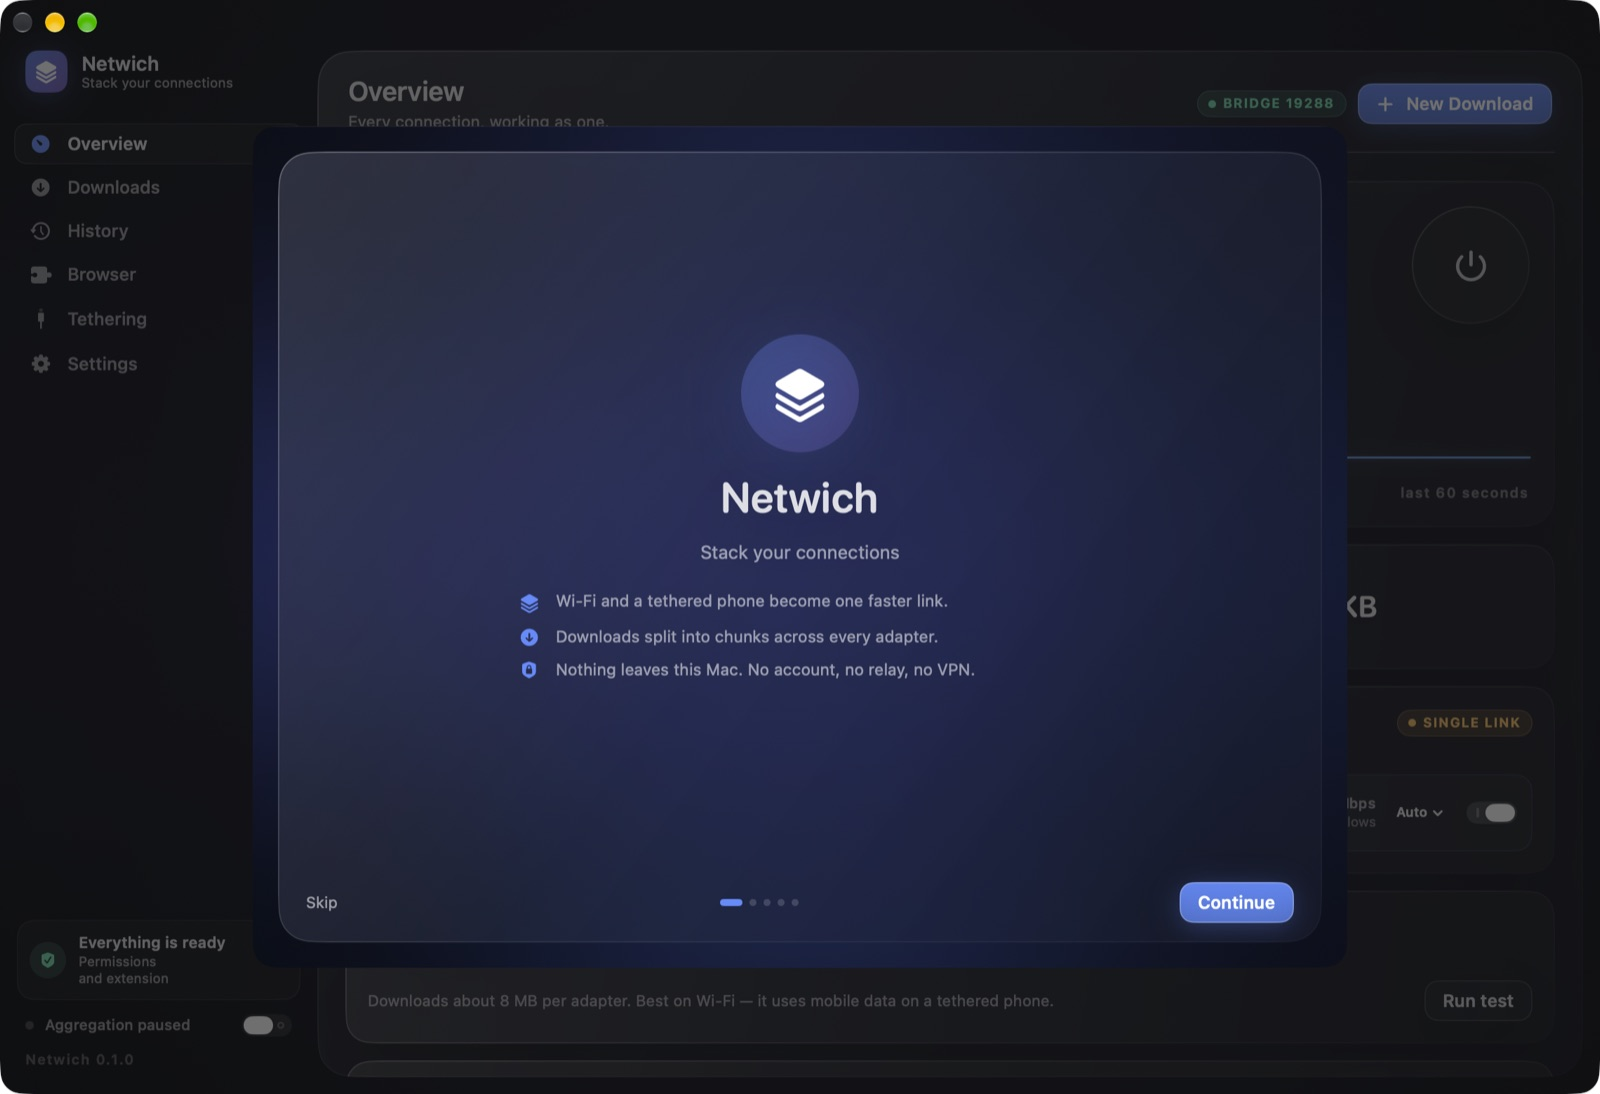
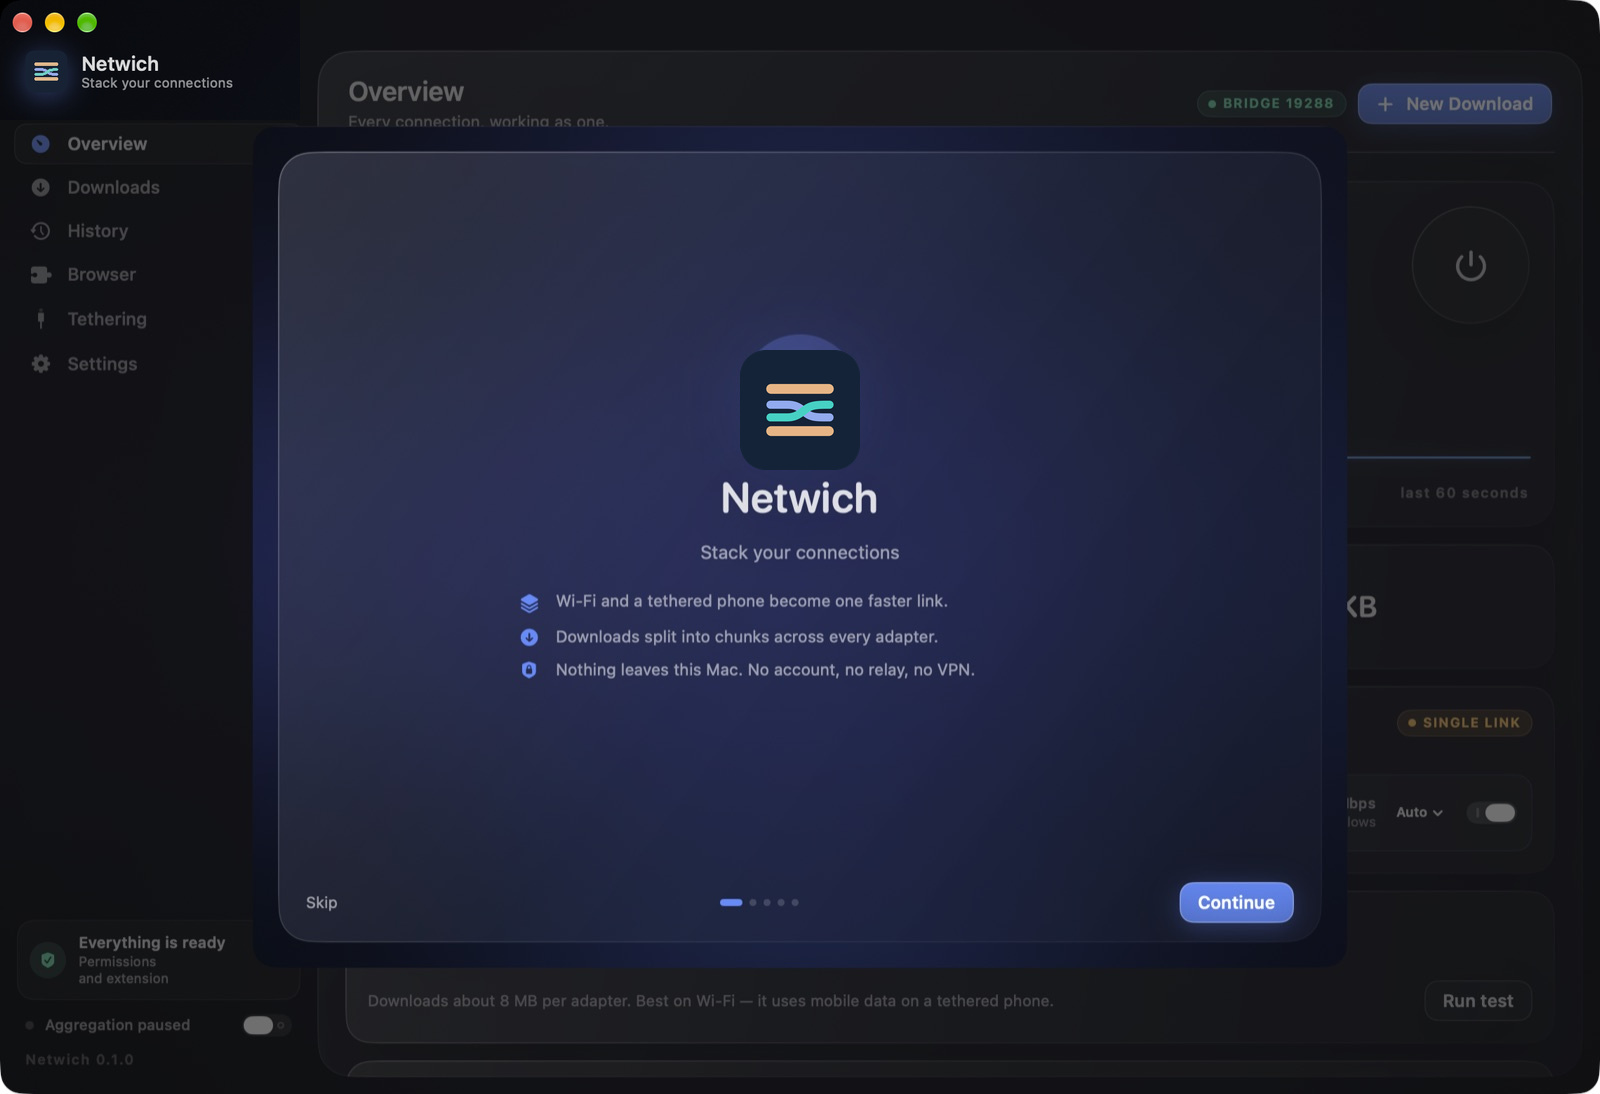
Apply official Netwich branding across app, installer, and remake demo tour

Changed region(s): [[0.4375, 0.3108, 0.5625, 0.4351], [0.0, 0.0, 0.125, 0.0932]]

diff --git a/App/Theme.swift b/App/Theme.swift
@@ -36,6 +36,75 @@ enum Palette {
     }
 }
 
+// MARK: - Netwich Brand Assets
+
+enum NetwichBrand {
+    /// Loads a named image from Bundle.main or by name.
+    static func nsImage(named name: String, template: Bool = false) -> NSImage? {
+        if let image = NSImage(named: NSImage.Name(name)) {
+            image.isTemplate = template
+            return image
+        }
+        let bundle = Bundle.main
+        for ext in ["png", "svg", "tiff", "icns"] {
+            if let url = bundle.url(forResource: name, withExtension: ext),
+               let image = NSImage(contentsOf: url) {
+                image.isTemplate = template
+                return image
+            }
+        }
+        return nil
+    }
+
+    /// App icon (the midnight rounded square with the sandwich threads).
+    @ViewBuilder
+    static func appIcon(size: CGFloat) -> some View {
+        if let image = nsImage(named: "netwich-app-icon-1024") {
+            Image(nsImage: image)
+                .resizable()
+                .aspectRatio(contentMode: .fit)
+                .frame(width: size, height: size)
+                .clipShape(RoundedRectangle(cornerRadius: size * 0.22, style: .continuous))
+        } else {
+            ZStack {
+                RoundedRectangle(cornerRadius: size * 0.22, style: .continuous)
+                    .fill(Palette.accent)
+                Image(systemName: "square.stack.3d.up.fill")
+                    .font(.system(size: size * 0.5, weight: .bold))
+                    .foregroundStyle(.white)
+            }
+            .frame(width: size, height: size)
+        }
+    }
+
+    /// Isolated brand mark (the crossing threads and bread rails without tile backdrop).
+    @ViewBuilder
+    static func mark(size: CGFloat) -> some View {
+        if let image = nsImage(named: "netwich-mark-512") {
+            Image(nsImage: image)
+                .resizable()
+                .aspectRatio(contentMode: .fit)
+                .frame(width: size, height: size)
+        } else {
+            Image(systemName: "point.3.filled.connected.trianglepath.dotted")
+                .font(.system(size: size * 0.8, weight: .bold))
+                .foregroundStyle(Palette.accent)
+                .frame(width: size, height: size)
+        }
+    }
+
+    /// Menu bar template icon.
+    @ViewBuilder
+    static func menuBarIcon(active: Bool) -> some View {
+        if let image = nsImage(named: "netwichTemplate", template: true) {
+            Image(nsImage: image)
+                .opacity(active ? 1.0 : 0.6)
+        } else {
+            Image(systemName: active ? "square.stack.3d.up.fill" : "square.stack.3d.up")
+        }
+    }
+}
+
 // MARK: - Motion
 
 /// Shared springs. One vocabulary everywhere beats ad-hoc durations.

diff --git a/App/Pages.swift b/App/Pages.swift
@@ -534,15 +534,8 @@ struct OnboardingView: View {
         VStack(spacing: 14) {
             Spacer()
 
-            ZStack {
-                Circle()
-                    .fill(LinearGradient(colors: [Palette.accent.opacity(0.30), Palette.violet.opacity(0.18)], startPoint: .topLeading, endPoint: .bottomTrailing))
-                    .frame(width: 84, height: 84)
-                Image(systemName: "square.stack.3d.up.fill")
-                    .font(.system(size: 34, weight: .semibold))
-                    .foregroundStyle(.white)
-            }
-            .shadow(color: Palette.accent.opacity(0.5), radius: 26, y: 8)
+            NetwichBrand.appIcon(size: 88)
+                .shadow(color: Palette.accent.opacity(0.4), radius: 24, y: 8)
 
             Text("Netwich")
                 .font(.system(size: 30, weight: .semibold, design: .rounded))
@@ -756,9 +749,7 @@ struct MenuBarView: View {
     var body: some View {
         VStack(spacing: 10) {
             HStack(spacing: 7) {
-                Image(systemName: "square.stack.3d.up.fill")
-                    .font(.system(size: 11, weight: .bold))
-                    .foregroundStyle(Palette.accent)
+                NetwichBrand.mark(size: 14)
                 Text("Netwich")
                     .font(.system(size: 12, weight: .semibold))
                 Spacer()

diff --git a/App/Views.swift b/App/Views.swift
@@ -268,19 +268,8 @@ private struct Sidebar: View {
 
     private var brand: some View {
         HStack(spacing: 10) {
-            ZStack {
-                RoundedRectangle(cornerRadius: 9, style: .continuous)
-                    .fill(LinearGradient(
-                        colors: [Palette.accent.opacity(0.85), Palette.violet.opacity(0.65)],
-                        startPoint: .topLeading,
-                        endPoint: .bottomTrailing
-                    ))
-                    .frame(width: 30, height: 30)
-                    .shadow(color: Palette.accent.opacity(0.5), radius: 10, y: 3)
-                Image(systemName: "square.stack.3d.up.fill")
-                    .font(.system(size: 14, weight: .bold))
-                    .foregroundStyle(.white)
-            }
+            NetwichBrand.appIcon(size: 30)
+                .shadow(color: Palette.accent.opacity(0.4), radius: 10, y: 3)
 
             VStack(alignment: .leading, spacing: 0) {
                 Text("Netwich")

diff --git a/App/NetwichApp.swift b/App/NetwichApp.swift
@@ -70,7 +70,7 @@ struct NetwichApp: App {
             MenuBarView(state: state)
         } label: {
             HStack(spacing: 4) {
-                Image(systemName: state.isOn ? "square.stack.3d.up.fill" : "square.stack.3d.up")
+                NetwichBrand.menuBarIcon(active: state.isOn)
                 if state.isOn, state.currentDownloadSpeedBytesPerSec > 50_000 {
                     Text(ByteFormat.rate(state.currentDownloadSpeedBytesPerSec))
                         .font(.system(size: 10, weight: .medium, design: .monospaced))

diff --git a/extension/src/content.ts b/extension/src/content.ts
@@ -337,6 +337,7 @@ interface HUDDownload {
         <div class="hud-card" id="card">
           <div class="hud-header">
             <div class="hud-brand">
+              <img src="${api.runtime.getURL('icons/icon-32.png')}" alt="Netwich" style="width: 15px; height: 15px; border-radius: 3px; object-fit: contain; vertical-align: middle;" />
               <div class="hud-dot" id="dot"></div>
               <span id="header-title">Netwich Download</span>
             </div>

diff --git a/extension/chrome/content.js b/extension/chrome/content.js
@@ -261,6 +261,7 @@
         <div class="hud-card" id="card">
           <div class="hud-header">
             <div class="hud-brand">
+              <img src="${api.runtime.getURL("icons/icon-32.png")}" alt="Netwich" style="width: 15px; height: 15px; border-radius: 3px; object-fit: contain; vertical-align: middle;" />
               <div class="hud-dot" id="dot"></div>
               <span id="header-title">Netwich Download</span>
             </div>

diff --git a/extension/content.js b/extension/content.js
@@ -261,6 +261,7 @@
         <div class="hud-card" id="card">
           <div class="hud-header">
             <div class="hud-brand">
+              <img src="${api.runtime.getURL("icons/icon-32.png")}" alt="Netwich" style="width: 15px; height: 15px; border-radius: 3px; object-fit: contain; vertical-align: middle;" />
               <div class="hud-dot" id="dot"></div>
               <span id="header-title">Netwich Download</span>
             </div>

diff --git a/extension/firefox/content.js b/extension/firefox/content.js
@@ -261,6 +261,7 @@
         <div class="hud-card" id="card">
           <div class="hud-header">
             <div class="hud-brand">
+              <img src="${api.runtime.getURL("icons/icon-32.png")}" alt="Netwich" style="width: 15px; height: 15px; border-radius: 3px; object-fit: contain; vertical-align: middle;" />
               <div class="hud-dot" id="dot"></div>
               <span id="header-title">Netwich Download</span>
             </div>
